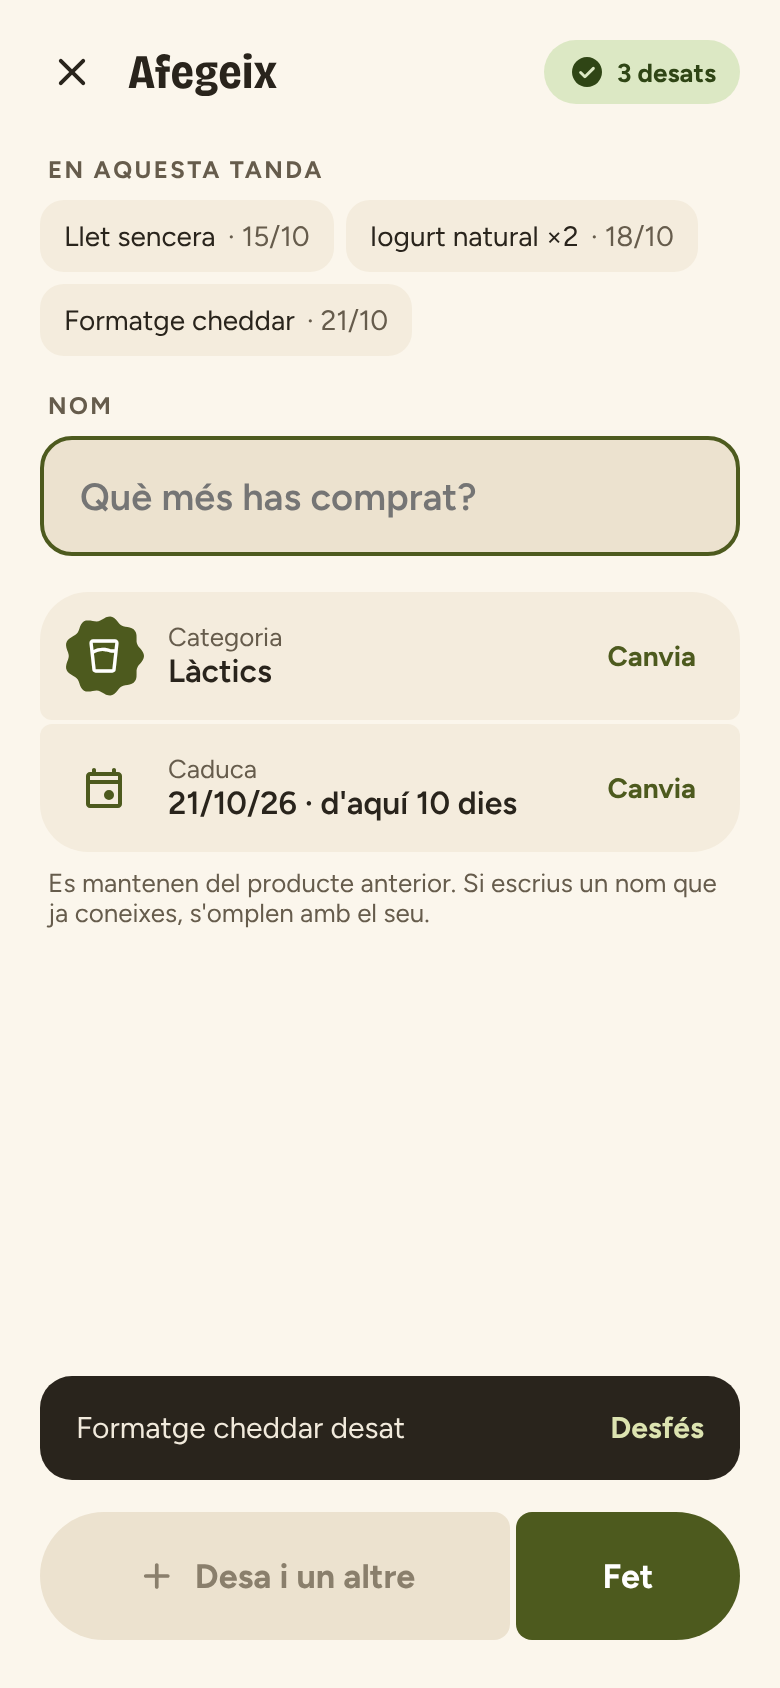
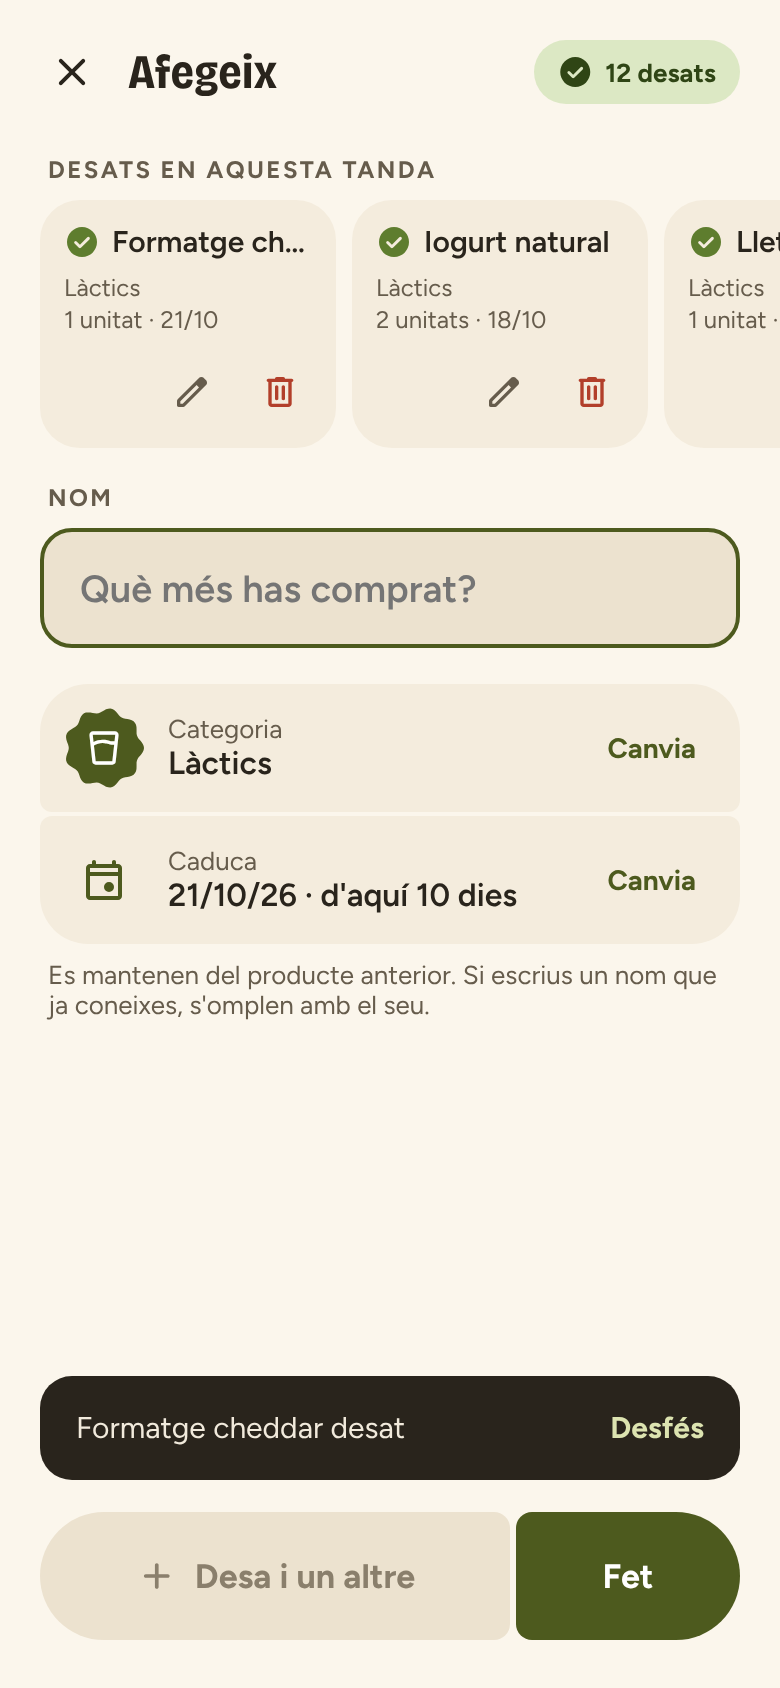
docs: update phase 4 plan with the batch saved-products row and remove-from-batch action

diff --git a/docs/redisseny/02-disseny-nou/font-dc-html/AfegirTanda.dc.html b/docs/redisseny/02-disseny-nou/font-dc-html/AfegirTanda.dc.html
@@ -22,16 +22,26 @@ a{color:#4D5A1E}a:hover{color:#283010}
     <div style="display: flex; align-items: center; gap: 4px; margin-left: -8px">
       <a href="Main.dc.html" aria-label="Tanca" style="width: 48px; height: 48px; border-radius: 24px; display: flex; align-items: center; justify-content: center; color: #29241C; text-decoration: none"><span class="ms" style="font-size: 24px">close</span></a>
       <h1 style="flex: 1; margin: 0; font-family: 'Bricolage Grotesque', sans-serif; font-size: 24px; font-weight: 700; font-stretch: 85%">Afegeix</h1>
-      <span style="display: flex; align-items: center; gap: 6px; height: 32px; padding: 0 12px; border-radius: 16px; background: #DCE8C4; color: #2F4515; font-size: 13px; font-weight: 700"><span class="ms msf" style="font-size: 18px">check_circle</span>3 desats</span>
+      <span style="display: flex; align-items: center; gap: 6px; height: 32px; padding: 0 12px; border-radius: 16px; background: #DCE8C4; color: #2F4515; font-size: 13px; font-weight: 700"><span class="ms msf" style="font-size: 18px">check_circle</span>12 desats</span>
     </div>
 
     <div style="display: flex; flex-direction: column; gap: 8px">
-      <div style="font-size: 12px; font-weight: 700; letter-spacing: 1.2px; text-transform: uppercase; color: #665C4C; padding: 0 4px">En aquesta tanda</div>
-      <div style="display: flex; flex-wrap: wrap; gap: 6px">
-        <button style="display: flex; align-items: center; gap: 6px; height: 36px; padding: 0 12px; border: none; border-radius: 12px; background: #F4ECDD; font-family: 'Figtree', sans-serif; font-size: 14px; color: #29241C">Llet sencera <span style="color: #665C4C">· 15/10</span></button>
-        <button style="display: flex; align-items: center; gap: 6px; height: 36px; padding: 0 12px; border: none; border-radius: 12px; background: #F4ECDD; font-family: 'Figtree', sans-serif; font-size: 14px; color: #29241C">Iogurt natural ×2 <span style="color: #665C4C">· 18/10</span></button>
-        <button style="display: flex; align-items: center; gap: 6px; height: 36px; padding: 0 12px; border: none; border-radius: 12px; background: #F4ECDD; font-family: 'Figtree', sans-serif; font-size: 14px; color: #29241C">Formatge cheddar <span style="color: #665C4C">· 21/10</span></button>
-      </div>
+      <div style="font-size: 12px; font-weight: 700; letter-spacing: 1.2px; text-transform: uppercase; color: #665C4C; padding: 0 4px">Desats en aquesta tanda</div>
+      <ul aria-label="Productes desats en aquesta tanda, del més recent al més antic" style="list-style: none; margin: 0 -20px 0 0; padding: 0 20px 0 0; display: flex; gap: 8px; overflow: hidden">
+        <sc-for list="{{saved}}" as="s" hint-placeholder-count="4">
+          <li style="flex: none; width: 148px; box-sizing: border-box; display: flex; flex-direction: column; gap: 6px; padding: 12px 6px 6px 12px; border-radius: 20px; background: #F4ECDD">
+            <div style="display: flex; align-items: flex-start; gap: 6px; padding-right: 6px">
+              <span class="ms msf" aria-hidden="true" style="font-size: 18px; color: #5E7D2E">check_circle</span>
+              <span style="flex: 1; min-width: 0; font-size: 15px; font-weight: 600; line-height: 1.2">{{s.name}}</span>
+            </div>
+            <div style="font-size: 12px; color: #665C4C; line-height: 1.35; padding-right: 6px">{{s.cat}}<br>{{s.meta}}</div>
+            <div style="display: flex; justify-content: flex-end; gap: 0; margin-top: auto">
+              <button aria-label="{{s.editLabel}}" style="width: 44px; height: 44px; border: none; border-radius: 22px; background: transparent; color: #665C4C; display: flex; align-items: center; justify-content: center"><span class="ms" style="font-size: 20px">edit</span></button>
+              <button aria-label="{{s.deleteLabel}}" style="width: 44px; height: 44px; border: none; border-radius: 22px; background: transparent; color: #B23F2A; display: flex; align-items: center; justify-content: center"><span class="ms" style="font-size: 20px">delete</span></button>
+            </div>
+          </li>
+        </sc-for>
+      </ul>
     </div>
 
     <div style="display: flex; flex-direction: column; gap: 8px">
@@ -87,7 +97,16 @@ class Component extends DCLogic {
     return "M" + p.join("L") + "Z";
   }
   renderVals() {
-    return { cookie: this.blob(9, 3, 0) };
+    var rows = [
+      ["Formatge cheddar", "Làctics", "1 unitat · 21/10"],
+      ["Iogurt natural", "Làctics", "2 unitats · 18/10"],
+      ["Llet sencera", "Làctics", "1 unitat · 15/10"],
+      ["Pomes", "Fruita i verdura", "3 unitats · 25/10"]
+    ];
+    var saved = rows.map(function (r) {
+      return { name: r[0], cat: r[1], meta: r[2], editLabel: "Edita " + r[0], deleteLabel: "Treu " + r[0] + " de la tanda" };
+    });
+    return { cookie: this.blob(9, 3, 0), saved: saved };
   }
 }
 </script>

diff --git a/docs/redisseny/PLA-MIGRACIO.md b/docs/redisseny/PLA-MIGRACIO.md
@@ -17,7 +17,7 @@ S'actualitza en tancar cada fase (regla 6: tests verds → emulador → validaci
 | 1 — Fonaments (tokens, tema, components) | ✅ Feta | `9878c05` … `260468e` | 2026-10-11 | Deduït dels commits |
 | 2 — Model, dades i càlcul d'estat | ✅ Feta | `d2e4ed9` … `d1b365b` | 2026-10-11 | Room v3, backup v2, `PreferencesMigrator` pas 1 |
 | 3 — Navegació (shell) | ✅ Feta | `aa72d49` … `ae8a69f` | 2026-10-11 | Validada per l'usuari. La prova en tauleta s'ha posposat al repàs global final (decidit 2026-10-11). Canvis: barra sempre visible per sobre del contingut; Ajustos és una icona que obre pantalla secundària; deep links nous (`OpenHome`/`OpenExpired`/`OpenAdd`) a la fase 10 |
-| 4 — Afegeix | 🟡 Pendent de validació | `353c8c7` … `942adf7`, `393e43e` | 2026-10-11 | Provada a l'emulador (clar i fosc). Fet: parser/dates ràpides, camp de data, `AddViewModel`, pantalla, mode tanda, mode edició (ruta i xip de tanda), `QuickCategorySheet`, neteja de l'antiga pantalla d'afegir. Pendent: validació de l'usuari |
+| 4 — Afegeix | 🟡 Pendent de validació | `353c8c7` … `942adf7`, `393e43e` | 2026-10-11 | Provada a l'emulador (clar i fosc). Fet: parser/dates ràpides, camp de data, `AddViewModel`, pantalla, mode tanda, mode edició (ruta i xip de tanda), `QuickCategorySheet`, neteja de l'antiga pantalla d'afegir. **Pendent (canvi de disseny 2026-10-11):** substituir els xips de la tanda per `BatchSavedRow`/`BatchSavedCard` + «Treu de la tanda» amb Desfés; validació de l'usuari |
 | 5 — Full d'Accions, Inici, Calendari | ⬜ Pendent | | | |
 | 6 — Rebost i Categoria | ⬜ Pendent | | | |
 | 7 — Caducats | ⬜ Pendent | | | |
@@ -519,12 +519,14 @@ Totes: `./gradlew ktlintCheck test assembleDebug` verd, app arrencable i commit(
 
 ### Fase 4 — Afegeix (prioritat alta)
 **Objectiu:** flux complet en 3 tocs.
-- **Crear:** `ui/screen/add/{AddScreen, AddViewModel, AddState, AddNavigation, AddSideEffect}`, `NameField` + `SuggestionRow`, `CategoryChips` (multilínia, sense scroll), `ExpiryDateField` (`dd/mm/aa`, barres automàtiques, accepta `dd/mm/aaaa`, ajuda en viu amb `liveRegion`, **«ja ha caducat» en `expired`**), `ExpiryDateParser` (pur), `QuantityStepper` (límit P22, **crea N ítems** via `AddItemBatchUseCase`), `FrozenToggle`, mode tanda (xips, resum Categoria/Data amb «Canvia», `Fet`), Desfés de l'últim desat, mode edició (`itemId`, una unitat, P20), `QuickCategorySheet` (+ `CategoryForm`, `ShapePicker`, `IconPicker` reutilitzables a la fase 8).
+- **Crear:** `ui/screen/add/{AddScreen, AddViewModel, AddState, AddNavigation, AddSideEffect}`, `NameField` + `SuggestionRow`, `CategoryChips` (multilínia, sense scroll), `ExpiryDateField` (`dd/mm/aa`, barres automàtiques, accepta `dd/mm/aaaa`, ajuda en viu amb `liveRegion`, **«ja ha caducat» en `expired`**), `ExpiryDateParser` (pur), `QuantityStepper` (límit P22, **crea N ítems** via `AddItemBatchUseCase`), `FrozenToggle`, mode tanda (**`BatchSavedRow` / `BatchSavedCard`** —`LazyRow` de targetes de 148 dp amb Edita i «Treu de la tanda», substitueix els xips «Nom · dd/mm»—, resum Categoria/Data amb «Canvia», `Fet`), Desfés de l'últim desat, mode edició (`itemId`, una unitat, P20), `QuickCategorySheet` (+ `CategoryForm`, `ShapePicker`, `IconPicker` reutilitzables a la fase 8).
 - **Substitueix:** `CategoryDetailAddItem*` (s'eliminen aquí; el botó d'afegir de l'antic `CategoryDetailScreen` es reconnecta a `Add(categoryId)` `// TEMP(fase 6)`). **No elimina** `ProductActionsSplitButton` (el consumeix `ProductTabContent` fins a la 6) ni `FutureDateSelectableDates` (viu al paquet `category/create`, que s'elimina a la 8): Afegeix simplement no els usa (P15).
+- **Fila «Desats en aquesta tanda»** (`06-afegir.md › Mode tanda`, 2026-10-11): `BatchSavedRow` (`LazyRow`, gap 8 dp, padding inicial 20 dp, **sense padding final** perquè es vegi un tros de la targeta següent) i `BatchSavedCard` (148 dp, `surface-card`, radi 20; `check_circle` `fresh` + nom fins a 2 línies, categoria, «N unitats · dd/mm», botons Edita i Treu de 44 dp). Ordre **del més recent al més antic** (`added` es mostra invertit) i, en desar, scroll animat a l'inici (`animateItem()` + `animateScrollToItem(0)`). Accessibilitat: la fila és una llista («Productes desats en aquesta tanda, del més recent al més antic»); «Edita {nom}» / «Treu {nom} de la tanda». Si s'esborren tots, la fila desapareix.
+- **Acció «Treu de la tanda» a `AddViewModel`** (`onRemoveEntry(entry)`): esborra les unitats de l'entrada **sense diàleg** i emet un snackbar «{nom} tret · Desfés». Reutilitza `UndoAddItemsUseCase`/`undoAdd` per esborrar (i el producte si l'alta el va crear i queda buit). **Desfés** el restaura amb **els mateixos ids i dates**: cal una instantània prèvia (`BatchSnapshot`: ids d'ítem, `productId`, nom del producte, categoria, caducitat, `createdAt`, congelat) i una operació nova `PantryDataSource.restoreBatch(snapshot)` (+ `RestoreBatchUseCase`) que reinsereix ítems i, si s'havia esborrat, el producte amb el mateix id; tot en una transacció. L'entrada torna a la seva posició.
 - **Hàptics:** `Confirm` en desar, `Reject` en botó desactivat.
-- **Riscos:** IME vs barra inferior (`imePadding`); mode edició dins el mateix ViewModel; col·lisions de nom; Desfés asíncron de N ítems; accessibilitat del camp de data.
-- **Acceptació:** `Afegir.png`, `AfegirNou.png`, `AfegirTanda.png`, `AfegirNovaCat.png`; nom+categoria+data obligatoris amb «Falten la categoria i la data per desar»; «Desa i un altre» manté categoria i data; Quantitat 3 desa 3 ítems (a Categoria es veuran com «3 unitats», fase 6); data passada es pot desar.; **preview en clar i en fosc; `AfegirFosc.png` forma part de l'acceptació**
-- **Tests:** `AddViewModelTest` (validació, suggeriment omple nom+categoria **però no data**, exacte→noves unitats, tanda, Desfés, edició d'una unitat, congelat), `ExpiryDateParserTest` (`1/2/26`, `01022026`, `31/02`, any de 2 xifres, enganxat, esborrat), `QuickDatesTest`, `QuickCategoryTest` (nom únic), `QuantityBatchTest`.
+- **Riscos:** IME vs barra inferior (`imePadding`); mode edició dins el mateix ViewModel; col·lisions de nom; Desfés asíncron de N ítems; accessibilitat del camp de data; **restaurar amb els mateixos ids** (el producte pot haver-se esborrat en treure l'última unitat; els ids han de ser lliures en restaurar); scroll a l'inici de la fila sense sobreescriure un scroll de l'usuari mentre edita; el xip «Edita» fa servir ara el botó de la targeta (el toc a tota la targeta ja no edita).
+- **Acceptació:** `Afegir.png`, `AfegirNou.png`, **la nova `AfegirTanda.png`** (fila de targetes amb scroll horitzontal i un tros de la següent visible), `AfegirNovaCat.png`; nom+categoria+data obligatoris amb «Falten la categoria i la data per desar»; «Desa i un altre» manté categoria i data; Quantitat 3 desa 3 ítems (a Categoria es veuran com «3 unitats», fase 6); data passada es pot desar.; **preview en clar i en fosc; `AfegirFosc.png` forma part de l'acceptació**
+- **Tests:** `AddViewModelTest` (validació, suggeriment omple nom+categoria **però no data**, exacte→noves unitats, tanda, Desfés, edició d'una unitat, congelat, **treure un ítem de la tanda, desfer-ho (mateix id i dates), ordre del més recent al més antic, treure'ls tots → la fila desapareix**), `ExpiryDateParserTest` (`1/2/26`, `01022026`, `31/02`, any de 2 xifres, enganxat, esborrat), `QuickDatesTest`, `QuickCategoryTest` (nom únic), `QuantityBatchTest`.
 
 ### Fase 5 — Full d'Accions, Inici i Calendari
 **Objectiu:** tres blocs, un commit cadascun, per ordre: 5a Accions → 5b Inici → 5c Calendari.

diff --git a/docs/redisseny/04-especificacio/pantalles/06-afegir.md b/docs/redisseny/04-especificacio/pantalles/06-afegir.md
@@ -8,7 +8,7 @@ Substitueix el botó «Add item» amb split i el formulari antic.
 ## Estructura (pantalla completa)
 
 1. Barra: `close` (48 dp) + «Afegeix» (`sheet-title`). En mode tanda, a la dreta pastilla «✓ N desats» (`fresh-container`).
-2. **En aquesta tanda** (només mode tanda): xips 36 dp `surface-card` amb «Nom · dd/mm» de cada ítem desat; tocar-ne un → l'edita.
+2. **Desats en aquesta tanda** (només mode tanda): **fila horitzontal amb scroll** de targetes (vegeu «Mode tanda» a sota). Substitueix els xips «Nom · dd/mm» de la versió anterior.
 3. **Nom** (overline + camp 60 dp, `surface-high`, vora 2 dp `primary` amb focus, radi 16, text 19/600). Focus i teclat oberts en entrar. Botó `cancel` per buidar.
    - **Suggeriment de l'historial** (màx. 1 visible; fila 52 dp `surface-card` radi 16): `history` + nom amb la part escrita en negreta + categoria a la dreta. Tocar → omple nom i categoria.
    - **Producte nou** (cap coincidència): avís `primary-container` amb `add_circle` «**Producte nou.** Tria'n la categoria i la data.»
@@ -25,6 +25,19 @@ Substitueix el botó «Add item» amb split i el formulari antic.
    - Desactivats (fons `surface-high`, text `outline`) mentre faltin camps; a sobre, «Falten la categoria i la data per desar».
 
 ## Mode tanda (`AfegirTanda.png`)
+
+### Fila «Desats en aquesta tanda»
+- `LazyRow` horitzontal, gap 8 dp, padding inicial 20 dp i **sense padding final visible**: la fila arriba fins a la vora dreta de la pantalla perquè es vegi **una part de la targeta següent** (indica que hi ha scroll).
+- Ordre: **el més recent primer** (a l'esquerra). En desar un producte nou, la fila fa scroll a l'inici amb animació (`animateItem()`).
+- **Targeta** de 148 dp d'amplada, `surface-card`, radi 20, padding 12/6/6/12:
+  - `check_circle` farcit 18 dp en `fresh` + nom del producte (`title-row` 15/600, **fins a 2 línies**, sense tallar).
+  - Categoria (`body-small` 12, `ink-variant`) i, a sota, «N unitats · dd/mm».
+  - A baix a la dreta, dos botons d'icona de 44 dp: **Edita** (`edit`, `ink-variant`) → obre l'ítem en mode edició; **Treu de la tanda** (`delete`, `expired`) → esborra l'ítem desat i mostra snackbar «Formatge cheddar tret · Desfés». **Sense diàleg de confirmació** (el Desfés n'és la protecció).
+- Accessibilitat: la fila és una llista («Productes desats en aquesta tanda, del més recent al més antic»); botons amb contentDescription «Edita {nom}» / «Treu {nom} de la tanda».
+- El comptador de la capçalera («✓ 12 desats») mostra el total de la tanda.
+- Si s'esborren tots, la fila desapareix i la pantalla torna a l'aspecte d'Afegeix normal.
+
+### Resta del mode tanda
 - Categoria i data es mostren com a files resum connectades amb botó «Canvia» (en lloc dels xips i el camp de data), més la nota «Es mantenen del producte anterior. Si escrius un nom que ja coneixes, s'omplen amb el seu.»
 - Si l'usuari tria un suggeriment, la categoria s'actualitza a la del suggeriment; la data es manté.
 

diff --git a/docs/redisseny/PROMPT.md b/docs/redisseny/PROMPT.md
@@ -1,0 +1,24 @@
+# Canvi: fila de la tanda a Afegeix
+
+## Com afegir-ho
+
+Copia aquests fitxers dins `docs/redisseny/`, **substituint** els existents:
+
+- `02-disseny-nou/captures/AfegirTanda.png`
+- `02-disseny-nou/font-dc-html/AfegirTanda.dc.html`
+- `04-especificacio/pantalles/06-afegir.md`
+
+## Prompt per a Claude Code
+
+---
+
+He actualitzat el disseny del mode tanda d'Afegeix a `docs/redisseny/`: `04-especificacio/pantalles/06-afegir.md` (apartat «Mode tanda › Fila "Desats en aquesta tanda"»), la captura `02-disseny-nou/captures/AfegirTanda.png` i la font `02-disseny-nou/font-dc-html/AfegirTanda.dc.html`.
+
+Resum del canvi: els xips «Nom · dd/mm» dels productes desats en aquesta tanda se substitueixen per una **fila horitzontal amb scroll** (`LazyRow`) de targetes de 148 dp, del més recent al més antic. Es veu un tros de la targeta següent. Cada targeta té nom (fins a 2 línies), categoria, unitats i data, i dos botons: **Edita** (obre l'ítem en mode edició) i **Treu de la tanda** (esborra l'ítem, sense confirmació, amb snackbar «Desfés»).
+
+Llegeix l'apartat i **actualitza `PLA-MIGRACIO.md`**, sense escriure codi:
+- Fase 4: substitueix els xips de tanda pel component `BatchSavedRow` / `BatchSavedCard`; afegeix l'acció «Treu de la tanda» al `AddViewModel` (esborrar l'ítem + Desfés que el restaura amb el mateix id i dates) i el scroll a l'inici en desar.
+- Tests de la fase 4: `AddViewModelTest` cobreix treure un ítem de la tanda, desfer-ho, l'ordre del més recent al més antic i treure'ls tots (la fila desapareix).
+- Criteri d'acceptació: la nova `AfegirTanda.png`.
+
+Ensenya'm el resum del canvi al pla.
